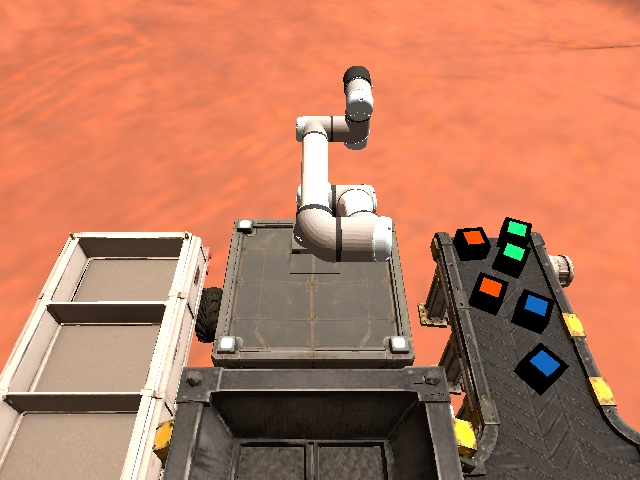
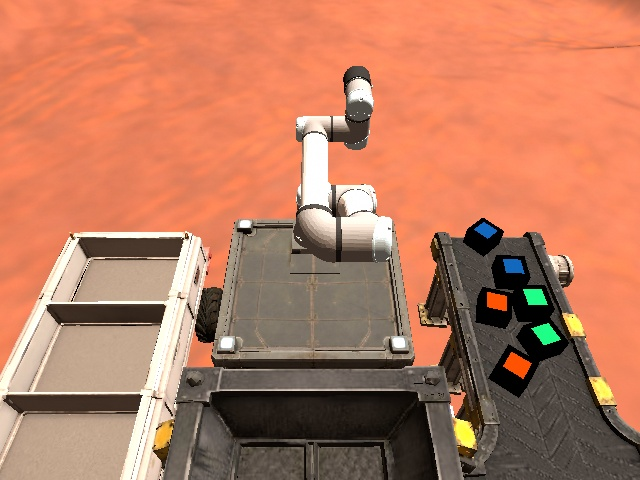
task1 updated, modification needed

Changed region(s): [[0.6875, 0.4375, 0.9062, 0.8438]]

diff --git a/algorithms/scripts/task1a/task1a.py b/algorithms/scripts/task1a/task1a.py
@@ -39,7 +39,8 @@ import tf2_ros
 import numpy as np
 from rclpy.node import Node
 from cv_bridge import CvBridge, CvBridgeError
-from geometry_msgs.msg import TransformStamped
+from geometry_msgs.msg import TransformStamped, PointStamped
+import tf2_geometry_msgs
 from sensor_msgs.msg import CameraInfo, Image
 
 
@@ -85,7 +86,7 @@ def detect_ores(image):
     color_ranges = {
         'azurite_ore': ((95, 150, 80), (115, 255, 255)),
         'malachite_ore': ((64, 150, 80), (84, 255, 255)),
-        'vanadinite_ore': ((3, 150, 80), (18, 255, 255))
+        'vanadinite_ore': ((8, 175, 130), (11, 255, 255))
     }
 
     for ore_type, (lower, upper) in color_ranges.items():
@@ -95,7 +96,7 @@ def detect_ores(image):
 
         mask = cv2.inRange(hsv, lower, upper)
 
-        kernel = np.ones((5, 5), np.uint8)
+        kernel = np.ones((7,7), np.uint8)
         mask = cv2.morphologyEx(mask, cv2.MORPH_OPEN, kernel)
         mask = cv2.morphologyEx(mask, cv2.MORPH_CLOSE, kernel)
 
@@ -198,11 +199,15 @@ class ore_tf(Node):
 
         ############ ADD YOUR CODE HERE ############
 
-        # INSTRUCTIONS & HELP :
-
-        #	->  Add any variable your detection needs to keep between frames.
-        #       ->  HINT: The two ores of a type must keep their ids for the whole run, and
-        #                 'detect_ores' returns them unordered.
+        # Store the previous pixel position of each ore.
+        # This allows the same ore to keep the same ID between frames.
+        self.ore_tracks = {
+            ore_type: {
+                1: None,
+                2: None
+            }
+            for ore_type in ore_types
+        }
 
         ############################################
 
@@ -219,6 +224,17 @@ class ore_tf(Node):
         '''
 
         ############ ADD YOUR CODE HERE ############
+        depth = self.bridge.imgmsg_to_cv2(
+            data,
+            desired_encoding='passthrough'
+        )
+
+        if data.encoding == '16UC1':
+            depth = depth.astype(np.float32) / 1000.0
+        elif data.encoding == '32FC1':
+            depth = depth.astype(np.float32)
+        self.depth_image = depth
+        self.depth_frame_id = data.header.frame_id
 
         # INSTRUCTIONS & HELP :
 
@@ -246,6 +262,10 @@ class ore_tf(Node):
         '''
 
         ############ ADD YOUR CODE HERE ############
+        self.cv_image = self.bridge.imgmsg_to_cv2(
+            data,
+            desired_encoding='bgr8'
+        )
 
         # INSTRUCTIONS & HELP :
 
@@ -267,6 +287,12 @@ class ore_tf(Node):
         '''
 
         ############ ADD YOUR CODE HERE ############
+        self.cam_info = data
+
+        self.fx = float(data.k[0])
+        self.fy = float(data.k[4])
+        self.cx = float(data.k[2])
+        self.cy = float(data.k[5])
 
         # INSTRUCTIONS & HELP :
 
@@ -288,6 +314,135 @@ class ore_tf(Node):
         '''
 
         ############ ADD YOUR CODE HERE ############
+        if self.cv_image is None:
+            return
+
+        if self.depth_image is None:
+            return
+
+        if self.cam_info is None:
+            return
+
+        center_ore_list, ore_type_list = detect_ores(self.cv_image)
+
+        # Group detected ores by type.
+        detections_by_type = {
+            ore_type: []
+            for ore_type in ore_types
+        }
+
+        for center, ore_type in zip(center_ore_list, ore_type_list):
+            detections_by_type[ore_type].append(center)
+
+        # Match each detected ore with a persistent ID.
+        assigned_detections = []
+
+        for ore_type in ore_types:
+
+            detections = detections_by_type[ore_type]
+            previous = self.ore_tracks[ore_type]
+
+            if len(detections) == 0:
+                continue
+
+            # First frame: assign IDs in a fixed order.
+            if previous[1] is None and previous[2] is None:
+
+                detections = sorted(
+                    detections,
+                    key=lambda p: (p[0], p[1])
+                )
+
+                for ore_id, center in enumerate(detections[:2], start=1):
+                    assigned_detections.append(
+                        (center, ore_type, ore_id)
+                    )
+
+                    previous[ore_id] = center
+
+            else:
+                # Match each detection to the nearest previous position.
+                unused_ids = [1, 2]
+
+                for center in detections[:2]:
+
+                    nearest_id = min(
+                        unused_ids,
+                        key=lambda ore_id:
+                            math.hypot(
+                                center[0] - previous[ore_id][0],
+                                center[1] - previous[ore_id][1]
+                            )
+                            if previous[ore_id] is not None
+                            else float('inf')
+                    )
+
+                    assigned_detections.append(
+                        (center, ore_type, nearest_id)
+                    )
+
+                    previous[nearest_id] = center
+                    unused_ids.remove(nearest_id)
+        for (cX, cY), ore_type, ore_id in assigned_detections:
+
+            patch = self.depth_image[cY-4:cY+5, cX-4:cX+5]
+
+            valid_depth = patch[
+                np.isfinite(patch) & (patch > 0.0)
+            ]
+
+            if valid_depth.size == 0:
+                continue
+
+            z = float(np.median(valid_depth))
+            x = (float(cX) - self.cx) * z / self.fx
+            y = (float(cY) - self.cy) * z / self.fy
+
+            point_in_camera = PointStamped()
+            point_in_camera.header.frame_id = self.depth_frame_id
+            point_in_camera.header.stamp = self.get_clock().now().to_msg()
+
+            point_in_camera.point.x = float(x)
+            point_in_camera.point.y = float(y)
+            point_in_camera.point.z = float(z)
+            # Camera measures the top face; required position is the ore centre.
+            ore_half_height = 0.0762 / 2.0
+            point_in_camera.point.z += float(ore_half_height)
+            try:
+                tf = self.tf_buffer.lookup_transform(
+                    base_frame,
+                    self.depth_frame_id,
+                    rclpy.time.Time()
+                )
+
+                point_in_base = tf2_geometry_msgs.do_transform_point(
+                    point_in_camera,
+                    tf
+                )
+
+            except Exception as e:
+                print("TF ERROR:", e)
+                continue
+            # Publish the ore position as a TF frame.
+            t = TransformStamped()
+
+            t.header.stamp = self.get_clock().now().to_msg()
+            t.header.frame_id = base_frame
+            t.child_frame_id = f'{ore_type}_{ore_id}'
+
+            t.transform.translation.x = float(point_in_base.point.x)
+            t.transform.translation.y = float(point_in_base.point.y)
+            t.transform.translation.z = float(point_in_base.point.z)
+
+            # Only translation is required.
+            t.transform.rotation.x = 0.0
+            t.transform.rotation.y = 0.0
+            t.transform.rotation.z = 0.0
+            t.transform.rotation.w = 1.0
+
+            self.br.sendTransform(t)
+        cv2.imshow("Ore Detection", self.cv_image)
+        cv2.waitKey(1)
 
         # INSTRUCTIONS & HELP :
 

diff --git a/algorithms/boilerplate/task1a_boilerplate_backup.py b/algorithms/boilerplate/task1a_boilerplate_backup.py
@@ -80,61 +80,7 @@ def detect_ores(image):
     ore_type_list = []
 
     ############ ADD YOUR CODE HERE ############
-    hsv = cv2.cvtColor(image, cv2.COLOR_BGR2HSV)
 
-    color_ranges = {
-        'azurite_ore': ((95, 150, 80), (115, 255, 255)),
-        'malachite_ore': ((64, 150, 80), (84, 255, 255)),
-        'vanadinite_ore': ((3, 150, 80), (18, 255, 255))
-    }
-
-    for ore_type, (lower, upper) in color_ranges.items():
-
-        lower = np.array(lower, dtype=np.uint8)
-        upper = np.array(upper, dtype=np.uint8)
-
-        mask = cv2.inRange(hsv, lower, upper)
-
-        kernel = np.ones((5, 5), np.uint8)
-        mask = cv2.morphologyEx(mask, cv2.MORPH_OPEN, kernel)
-        mask = cv2.morphologyEx(mask, cv2.MORPH_CLOSE, kernel)
-
-        contours, _ = cv2.findContours(
-            mask,
-            cv2.RETR_EXTERNAL,
-            cv2.CHAIN_APPROX_SIMPLE
-        )
-
-        for contour in contours:
-
-            area = cv2.contourArea(contour)
-
-            if area < 100 or area > 1000:
-                continue
-
-            M = cv2.moments(contour)
-
-            if M['m00'] == 0:
-                continue
-
-            cX = int(M['m10'] / M['m00'])
-            cY = int(M['m01'] / M['m00'])
-
-            center_ore_list.append((cX, cY))
-            ore_type_list.append(ore_type)
-
-            cv2.circle(image, (cX, cY), 6, (255, 255, 255), -1)
-
-            cv2.putText(
-                image,
-                ore_type,
-                (cX + 8, cY),
-                cv2.FONT_HERSHEY_SIMPLEX,
-                0.4,
-                (255, 255, 255),
-                1
-            )
-    return center_ore_list, ore_type_list
     # INSTRUCTIONS & HELP :
 
     #	->  Detect the ores by COLOUR, and return a center pixel and a type for each.

diff --git a/algorithms/setup.py b/algorithms/setup.py
@@ -29,6 +29,7 @@ package_name = 'algorithms'
 #   * a script needs `#!/usr/bin/env python3` on its first line and the executable bit
 #     (`chmod +x`), or it installs fine and then refuses to start.
 SCRIPTS = [
+    'scripts/task1a/task1a.py',
     # Your nodes go here, for example:
     # 'scripts/task1a/task1a.py',
     # 'scripts/task1b/task1b.py',
